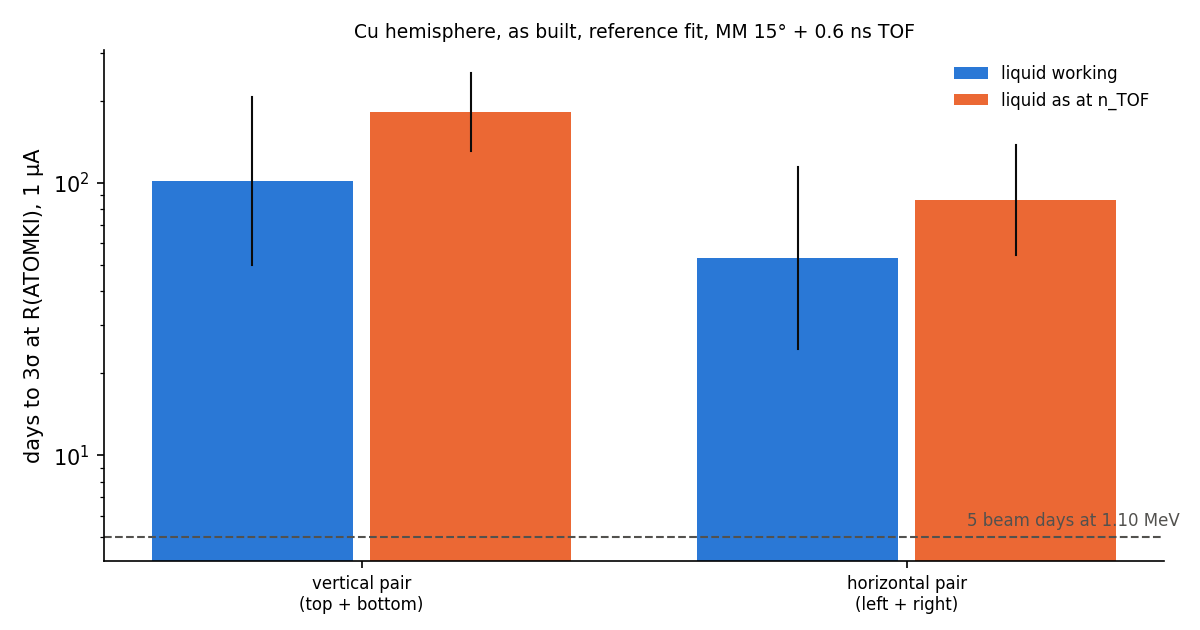
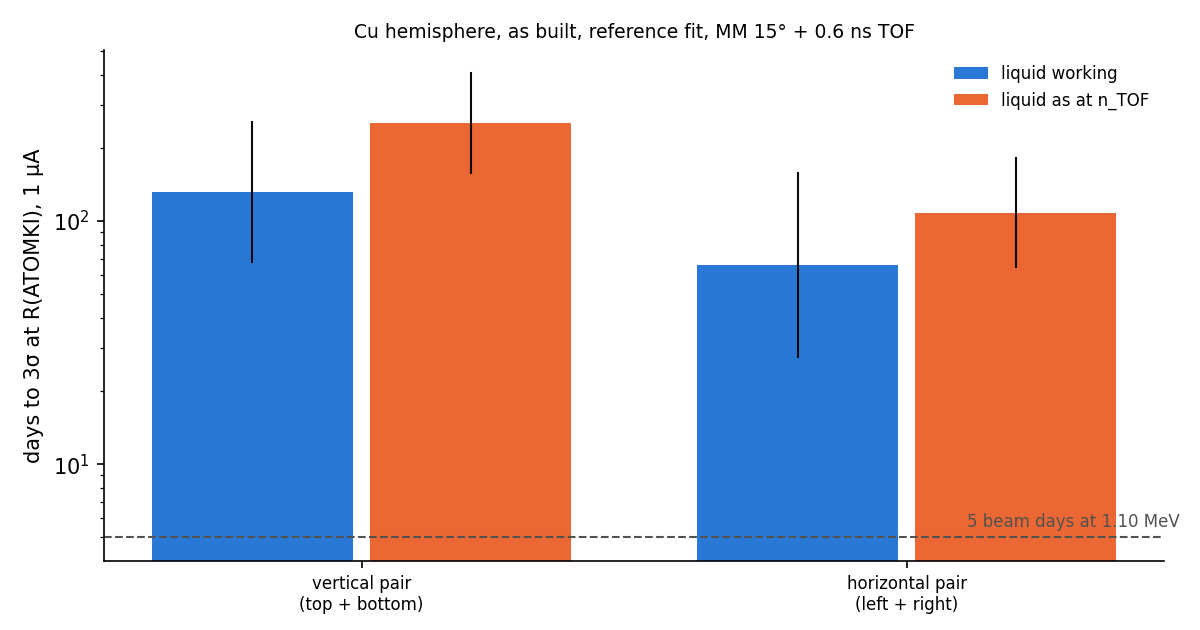
R11 + R11b: liquid behind the SiPM wall gives no gain in Geant4 (direct 284 d vs 189 d baseline); baseline kept. LIQUID_CELLS 4.1, plan R11 done, HANDOFF
Claude-Session: https://claude.ai/code/session_01RxGgbPLWsfGe6B5Fax23nN

diff --git a/planning/plan.py b/planning/plan.py
@@ -134,8 +134,8 @@ TASKS = [
          t="More as-built MC for the Cu hemisphere: done 20 Nov (run L18, ×30 the L10 tables; the 19 Nov study had used the Cu ogive)"),
     dict(id="R10", ws="sim", due="2026-12-05", who="Dylan", status="todo",
          t="Two-arm Geant4 of the lighter Al end piece (Al ogive + Cu liner or the 45° Al cap), as L18 for the hemisphere: its slot-1 rows are scaled estimates now"),
-    dict(id="R11", ws="sim", due="2026-12-05", who="Dylan", status="active",
-         t="Geant4 of the liquid cell right behind the SiPM wall (run R11, 21 Nov): the toy's gain (151 -> ~34 d) is not confirmed. X17 acceptance x2.5 (not x4.2), backgrounds grow faster (cosmics x3.5); 91 d central (1.83 x R(ATOMKI)) but the estimators span 43-197 d (direct = no gain) and the transplant is not valid for this layout. More beam MC submitted 21 Nov (run R11b, 900 jobs, x3-4); refit when merged (LIQUID_CELLS.md 4.1). Proposal keeps the baseline until then"),
+    dict(id="R11", ws="sim", due="2026-12-05", who="Dylan", status="done",
+         t="Geant4 of the liquid cell right behind the SiPM wall (runs R11 + R11b, 21 Nov): no gain. Own MC (direct) 284 d to 3 sigma vs 189 d for the baseline; X17 acceptance x2.5 (toy x4.2), cosmics x3.5, gamma1 x7; the transplant (47 d) does not apply to this layout. Baseline kept (LIQUID_CELLS.md 4.1)"),
     dict(id="R7", ws="sim", due="2026-11-20", who="Dylan", status="done",
          t="Geant4 predictions of every observable of the run (trigger and track fractions, cosmic θ/Δt/pointing, beam singles, 441 keV and 1.10 MeV spectra) and a 3D view of real Geant4 events (run L17): Predictions tab, sim2arm/PREDICTIONS.md (20 Nov)"),
     dict(id="R8", ws="sim", due="2026-11-27", who="Dylan", status="todo", dep=["R7"],
@@ -167,7 +167,7 @@ TASKS = [
     dict(id="S7", ws="scint", due="2027-02-28", who="Dylan", status="todo",
          t="Wider liquid cells to replace the big plastics, within ~60 L: oversized-cell Geant4 run at 35/41/47 cm (60–80 cm sides need 27–56 L for 2 arms, ~53 L for 4 arms at 60 × 60 × 3 cm); trigger leg, light collection, PMTs (LIQUID_CELLS.md §3)"),
     dict(id="S8", ws="scint", due="2026-12-05", who="Dylan", status="todo",
-         t="Ask PF: can the new cans sit right behind the SiPM wall, in the 6 cm gap before the plastics (R11)? How much liquid (~60 L?), which liquid, who remakes the cans and when, how many PMTs; '4 cm in parallel / 2 cm in series': per arm or in total?"),
+         t="Ask PF: how much liquid (~60 L?), which liquid, who remakes the cans and when, how many PMTs; '4 cm in parallel / 2 cm in series': per arm or in total?"),
     dict(id="S9", ws="scint", due="2027-05-01", who="Pierfrancesco", status="todo", dep=["S8"],
          t="Remake 2 liquid-cell cans (45 × 45 × 2 cm baseline, or the S6/S7 design) and fill them"),
     # --- target

diff --git a/slot1_feasibility/LIQUID_CELLS.md b/slot1_feasibility/LIQUID_CELLS.md
@@ -71,6 +71,8 @@ Open points before this can replace the big plastics:
 
 ## 4. Liquid in front: right behind the SiPM wall, the plastics behind it (Dylan, 20 Nov)
 
+**Superseded by Geant4 (§4.1, 21 Nov):** layout C gives no gain over layout A. The toy below is kept for the record.
+
 Code: `../sim2arm/leg_layout.py` → `../sim2arm/out/leg_layout.csv` (15 s). **A scaling estimate:** the geometric leg
 toy of `FEASIBILITY_SIM.md` §9 (fitted to the Geant4 X17 pair-tags), horizontal pair only, counting in 125–155°; days
 ∝ B/S², applied to the Geant4 hemisphere reach (151 d to 3σ, 2.35 × R(ATOMKI) in 5 d, liquid working).
@@ -98,49 +100,51 @@ toy of `FEASIBILITY_SIM.md` §9 (fitted to the Geant4 X17 pair-tags), horizontal
   the new cans can be designed for it (ask). Trigger: the leg uses the liquid PMT in the 20 ns coincidence; the
   arm-to-arm TOF stays on the SiPM walls. Beam singles roughly double (~150 Hz per arm at 1.10 MeV): fine for DREAM.
 
-### 4.1 Geant4 of layout C (run R11, 21 Nov): the toy's gain is not confirmed
+### 4.1 Geant4 of layout C (runs R11 + R11b, 21 Nov): no gain over the baseline
 
-We simulated layout C in Geant4 (run R11, the built Cu hemisphere, the n_TOF liquid can 1.6 cm behind the SiPM wall,
-leg = SiPM AND (plastic OR E_ls ≥ 1.7 MeV)). All 830 condor jobs ran once and exited cleanly. The reach fit is the
-pass-4 fit (`TA_LAYOUT=lsf16`, `sim2arm/run_r11.sh`, outputs `sim2arm/out/summary_reach_r11*.csv`).
+We simulated layout C in Geant4. The geometry is the built Cu hemisphere with the n_TOF liquid can 1.6 cm behind the SiPM
+wall, and the leg is SiPM AND (plastic OR E_ls ≥ 1.7 MeV). Run R11 (830 jobs) gave the signal, the cosmics and a first
+set of beam backgrounds. Run R11b (900 jobs) added ×3 the beam MC at 18.15 MeV and in gam_8Be, and ×4 at 15.1 MeV. Every
+job of both runs started once and exited 0. The reach fit is the pass-4 fit (`TA_LAYOUT=lsf16`, `sim2arm/run_r11.sh`).
+The outputs are `sim2arm/out/summary_reach_r11li11.csv` (11 µm) and `summary_reach_r11.csv` (20 µm). The R11-only fits
+are kept as `summary_reach_r11*only.csv`.
 
-The table below gives the days to 3σ for the horizontal pair at MM 15° + TOF with an 11 µm film. The central value is
-the geometric mean of the two estimators (§1.3 of TWO_ARM_STUDY), and the range is the two estimators.
+The table below gives the days to 3σ for the horizontal pair at MM 15° + TOF with an 11 µm film. Section 1.3 of
+TWO_ARM_STUDY defines the two estimators. The direct estimator uses the configuration's own tables, and the transplant
+puts its rates and angle residuals on the dense baseline MC.
 
-| layout | response | days to 3σ (direct / transplant) | central | 90 % limit in 5 d |
-|---|---|---|---|---|
-| A. pass 4 (L18) | LNL calibrated | 189 / 120 | 151 | 2.35 × |
-| C. R11 | LNL calibrated | 197 / 43 | 91 | 1.83 × |
-| A. pass 4 (L18) | n_TOF as is | 321 / 215 | 263 | 3.10 × |
-| C. R11 | n_TOF as is | 245 / 100 | 156 | 2.39 × |
+| layout | response | direct | transplant | geometric mean | 90 % limit in 5 d |
+|---|---|---|---|---|---|
+| A. pass 4 (L18) | LNL calibrated | 189 | 120 | 151 | 2.35 × |
+| C. R11 only | LNL calibrated | 197 | 43 | 91 | 1.83 × |
+| **C. R11 + R11b** | LNL calibrated | **284** | 47 | 115 | 2.05 × |
+| A. pass 4 (L18) | n_TOF as is | 321 | 215 | 263 | 3.10 × |
+| C. R11 + R11b | n_TOF as is | 324 | 115 | 193 | 2.66 × |
 
 What the simulation shows:
-- **The X17 acceptance grows ×2.5, not ×4.2** (horizontal pair, in the signal region 130–155° and the E_sum window).
-  The toy overestimated the gain in acceptance.
-- **The backgrounds grow faster than the signal.** In the signal region the IPC (E1) grows ×2.3, the γ₁ pairs ×7, and the
-  cosmics ×3.5. The cosmics are now 56 % of the background there, against 40 % in pass 4. So the toy's assumption
-  "S/B unchanged" does not hold.
-- **The two estimators disagree by a factor 4.6** (pass 4: 1.6). The direct estimator uses R11's own tables and finds no
-  gain over pass 4 (197 against 189 d). The transplant puts R11's rates and angle residuals on the dense baseline MC, and
-  it finds ×2.8. However, the transplant keeps the baseline's energy shapes. In R11, 86 % of the arm energy of an X17
-  pair is in the liquid (pass 4: 14 %). For this reason the transplant is not a valid estimator for this layout. It
-  misses that the energy response is now the liquid's (the X17 E_sum width grows from 2.15 to 2.56 MeV with the LNL
-  calibrated response, and from 2.4 to 4.7 MeV with the n_TOF response).
-- **The direct estimator is limited by the beam MC.** R11 has fewer beam events per live day than L18 (430 beam jobs
-  against 780, and twice the rate per MC event). In the signal region there are 345 E1, 160 M1, 28 γ₁ and 5 EPC MC
-  events. The raw fits (no floor) are unstable with these tables: without cosmics they give 0.7 d with the ideal
-  response, which is not physical (`sim2arm/r11_diag.py`). So the direct 197 d is driven partly by the floor, and we
-  cannot yet say how much of the toy's gain survives.
+- **The X17 acceptance grows ×2.5, not ×4.2** (horizontal pair, signal region 130–155°, E_sum window). The toy
+  overestimated the gain in acceptance.
+- **The backgrounds grow faster than the signal.** In the signal region the IPC (E1) grows ×2.3, the γ₁ pairs ×7 and the
+  cosmics ×3.5. The cosmics are 56 % of the background there, against 40 % in pass 4. So the toy's assumption "S/B
+  unchanged" does not hold.
+- **With more MC the direct estimator got worse, and it is now stable.** It went from 197 to 284 days. The floor now
+  changes it by only 7 % (raw 266 d), against 15 % before. This means that the thin R11 tables were optimistic, and the
+  direct estimator is now set by the physics rather than by the MC. Compared with the direct estimator of pass 4 (189 d),
+  layout C needs 1.5 × more days.
+- **The transplant does not apply to this layout.** It stayed near 45 d with more MC, because it uses the baseline MC for
+  the beam shapes. In R11, 86 % of the arm energy of an X17 pair is in the liquid, against 14 % in pass 4. The transplant
+  keeps the baseline's energy shapes, so it misses that the energy response is now the liquid's. For the LNL calibrated
+  response the X17 E_sum width grows from 2.15 to 2.56 MeV, and for the n_TOF response from 2.4 to 4.7 MeV. For this
+  reason the geometric mean (115 d) is not a meaningful number here, and we use the direct estimator.
 
-What this means: we have no Geant4 evidence yet that layout C beats the baseline. The proposal keeps the baseline
-(151 d, 2.35 × R(ATOMKI) in 5 d). To settle it, R11 needs about ×3 more beam MC (E1 18.15, M1 18.15, gam_8Be, and an
-EPC sample), so that the direct estimator no longer depends on the floor. The jobs are short (0.3–0.7 h, 4 GB, `longlunch`).
+What this means: layout C does not beat the baseline in Geant4. Its own MC gives 1.5 × more days to 3σ than layout A.
+The proposal keeps the baseline: two 45 × 45 × 2 cm cells behind the plastics, 151 d to 3σ and 2.35 × R(ATOMKI) in 5 d.
+The toy of §4 was wrong for two reasons. It overestimated the gain in acceptance, and it assumed that the backgrounds
+scale like the signal.
 
-**Submitted 21 Nov, 17:30 (run R11b, clusters 4712563–4712567, 900 jobs):** M1 and E1 18.15 at 200 × 10⁵ each, M1 and
-E1 15.1 at 150 × 10⁵ each (E1 15.1 gives the γ₁ component), gam_8Be at 200 × 2 × 10⁶. With R11 this is ×3 the beam MC
-at 18.15 MeV and ×4 at 15.1 MeV. The EPC component is read from the baseline run L3 in the fit (`shapes_nd`), so an R11
-EPC sample would not be used. The merge loop `merge_loop_r11b.sh` writes `R11b_*` chunks to `sel_r11/`, and
-`combine_r11.py` adds them to the R11 tables.
+Limits of this result: we simulated one position (1.6 cm behind the SiPM wall) and one leg threshold (1.7 MeV). A higher
+liquid threshold or a cosmic veto might recover part of the gain, but we have not simulated them. Layout F (a 60 × 60
+cell in front) would grow the cosmics in the same way and is not expected to do better.
 
 ## 5. To do (plan.py)
 
@@ -148,7 +152,6 @@ EPC sample would not be used. The merge loop `merge_loop_r11b.sh` writes `R11b_*
   expose `ls_slab_thick_cm`, `ls_slab_u/v_cm`, `ls_fill_liters` and the cell position on the MX17_Full_Geant command line.
 - **S7** Geant4 run with an oversized liquid cell (like `--big-plastic`; cut smaller squares offline) at 35, 41 and 47 cm:
   replaces the toy above; decides whether wide cells replace the big plastics for slot 2.
-- **R11** Geant4 of layout C (and F): the liquid right behind the SiPM wall, leg = SiPM × (liquid OR plastic), as L18;
-  needs the LS position and size on the command line (S6) and the leg definition in the reduction.
+- **R11** done 21 Nov (§4.1): layout C needs 1.5 × more days than the baseline in Geant4. The baseline stays.
 - **S8** Ask Pierfrancesco: how much liquid (~60 L?), which liquid, who remakes the cans, how many PMTs exist, and what he
   means by "in parallel / in series".

diff --git a/HANDOFF.md b/HANDOFF.md
@@ -1,22 +1,19 @@
 # Handoff
 
-## R11: Geant4 of the liquid cell right behind the SiPM wall — updated 2026-11-21 (dylan-MS-7C84)
+## R11: Geant4 of the liquid cell right behind the SiPM wall — updated 2026-11-21 23:50 (dylan-MS-7C84)
 
-**Resume:** R11b (more beam MC) submitted 21 Nov 17:30; when merged: fetch, combine, refit (commands below), update
-LIQUID_CELLS.md §4.1 and the proposal if the gain holds.
+**Resume:** done. Layout C gives no gain (LIQUID_CELLS.md §4.1); the baseline stays in the proposal. Next on the proposal:
+S8 (questions to PF), R5 (Overleaf), R8 (Fig. 1).
 
-- **R11 result (21 Nov, LIQUID_CELLS.md §4.1):** toy gain not confirmed. Horizontal, 11 µm, liquid working: direct 197 d /
-  transplant 43 d → 91 d central, 1.83 × (pass 4: 189 / 120 → 151 d, 2.35 ×). X17 acceptance ×2.5 (toy ×4.2); cosmics ×3.5,
-  γ₁ ×7. The transplant is not valid here (86 % of the arm energy in the liquid; it keeps the baseline's energy shapes).
-  The direct is limited by thin beam MC (raw fits unstable: `sim2arm/r11_diag.py`). Proposal keeps the baseline.
-- **R11b:** clusters 4712563–4712567 (M1/E1 18.15 200 × 1e5, M1/E1 15.1 150 × 1e5, gam_8Be 200 × 2e6), logs
-  `~/condor/lnl/R11b/<sample>/logs`. Merge loop `analysis/l15/merge_loop_r11b.sh` (setsid, 96 × 15 min = 24 h, up to
-  ~17:30 on 22 Nov; restart the same way if needed, it skips merged chunks) → `sel_r11/R11b_*` (36 chunks).
-- EPC is read from run L3 in shapes_nd (not layout-specific); γ₁ comes from E1_15.1.
-- Then: check 001 vs 005 in each condor.log; `rsync -a lxplus:/eos/experiment/ntof/data/x17/lnl/target/sel_r11/
-  $WORK_DATA/x17_facility_search/sel_r11_chunks/`; `python sim2arm/combine_r11.py` (R11 + R11b; `R11B=0` = R11 only);
-  `bash sim2arm/run_r11.sh` (clear `sim2arm/out/parts/reach_r11*` first, the fits are cached per task), then
-  `summarize.py --tag _r11li11` and `--tag _r11`. If AFS reads say "Permission denied" on lxplus, run `aklog`.
+- R11 (830 jobs) + R11b (900 jobs, ×3–4 beam MC; clusters 4712563–4712567), all clean (001 = 005, exit 0).
+- Horizontal, 11 µm, LNL calibrated: direct 284 d (raw 266) against 189 d for pass 4; transplant 47 d is not valid here
+  (86 % of the arm energy in the liquid, the transplant keeps the baseline's energy shapes). R11-only: 197 / 43 d, so the
+  thin MC was optimistic. Acceptance ×2.5 (toy ×4.2), cosmics ×3.5, γ₁ ×7 in the signal region.
+- Outputs `sim2arm/out/summary_reach_r11li11.csv`, `_r11.csv`; R11-only `*_r11*only.csv`; diagnostics `sim2arm/r11_diag.py`.
+- The fit cache `sim2arm/out/parts/<what><tag>/` is keyed by the task, not the tables: clear it when the tables change.
+- EPC uses the configuration's own gam_8Be (`tp_epc='own'`); L3 is only the baseline's.
+- Not simulated: a higher liquid leg threshold, a cosmic veto. Tables on `$WORK_DATA/x17_facility_search/sel_r11/`
+  (chunks on EOS `lnl/target/sel_r11/`).
 
 ## Liquid cells in the baseline, predictions table in the proposal — updated 2026-11-20 (dylan-MS-7C84)
 
